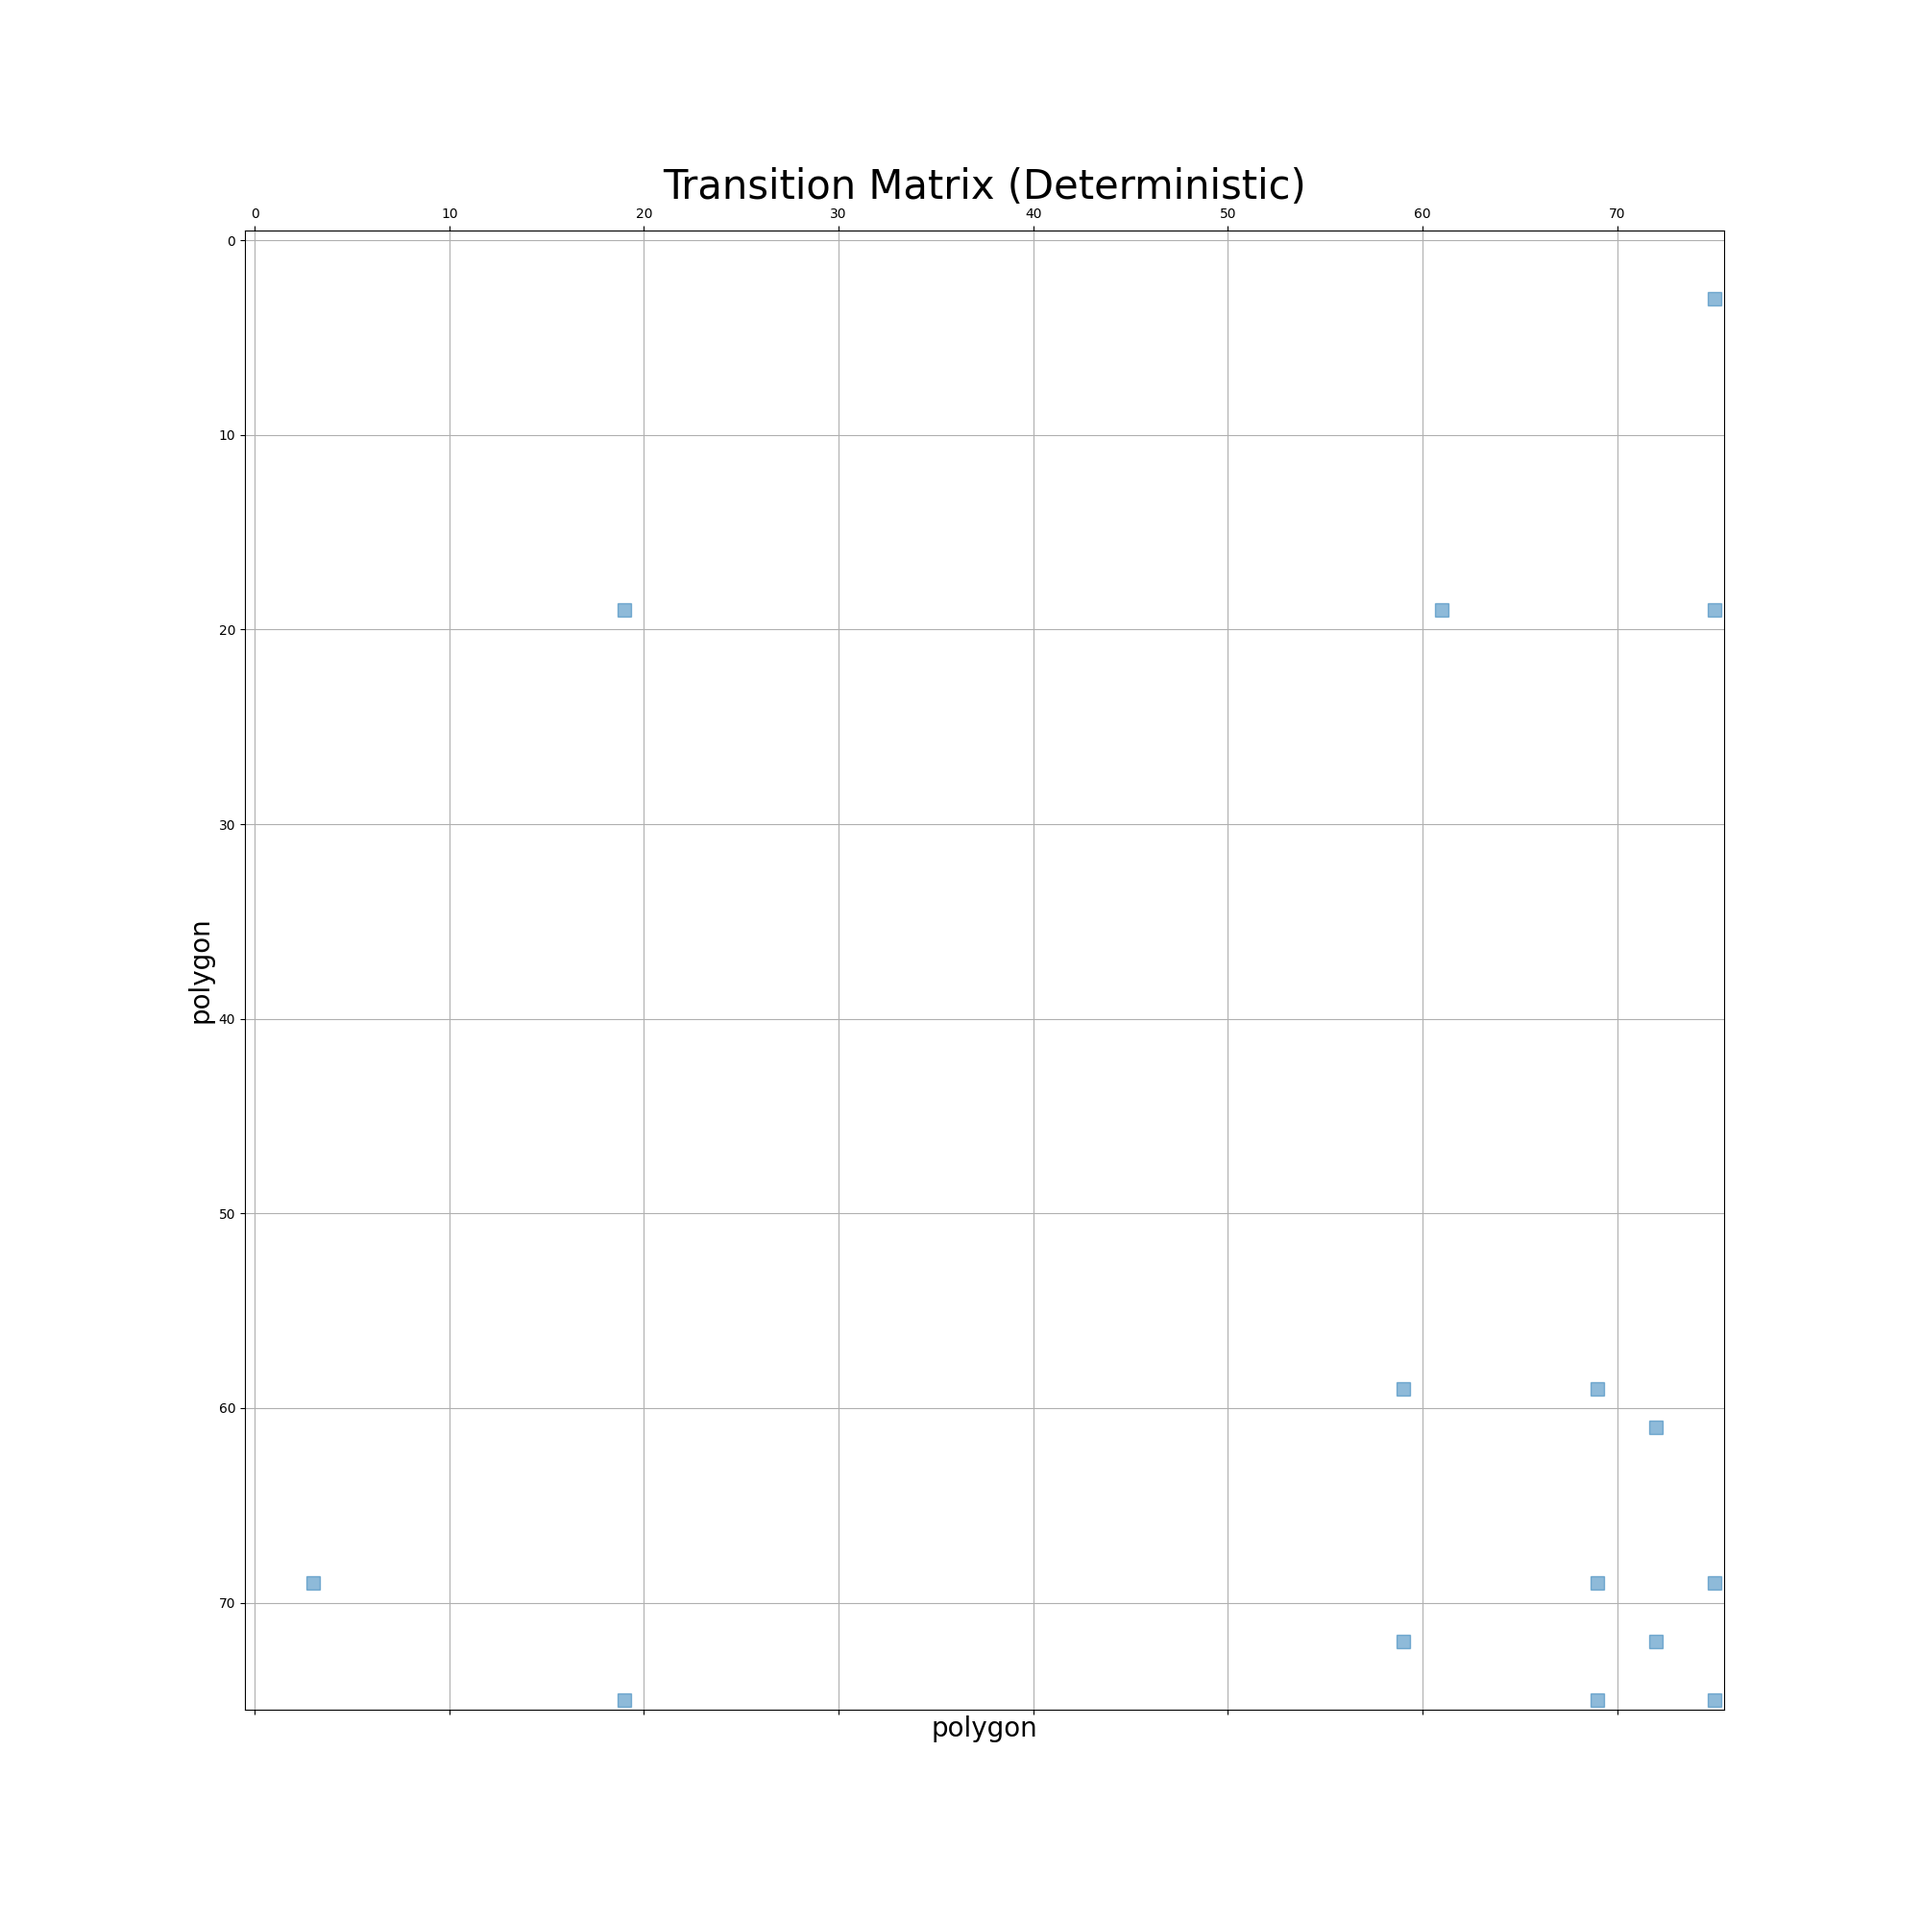
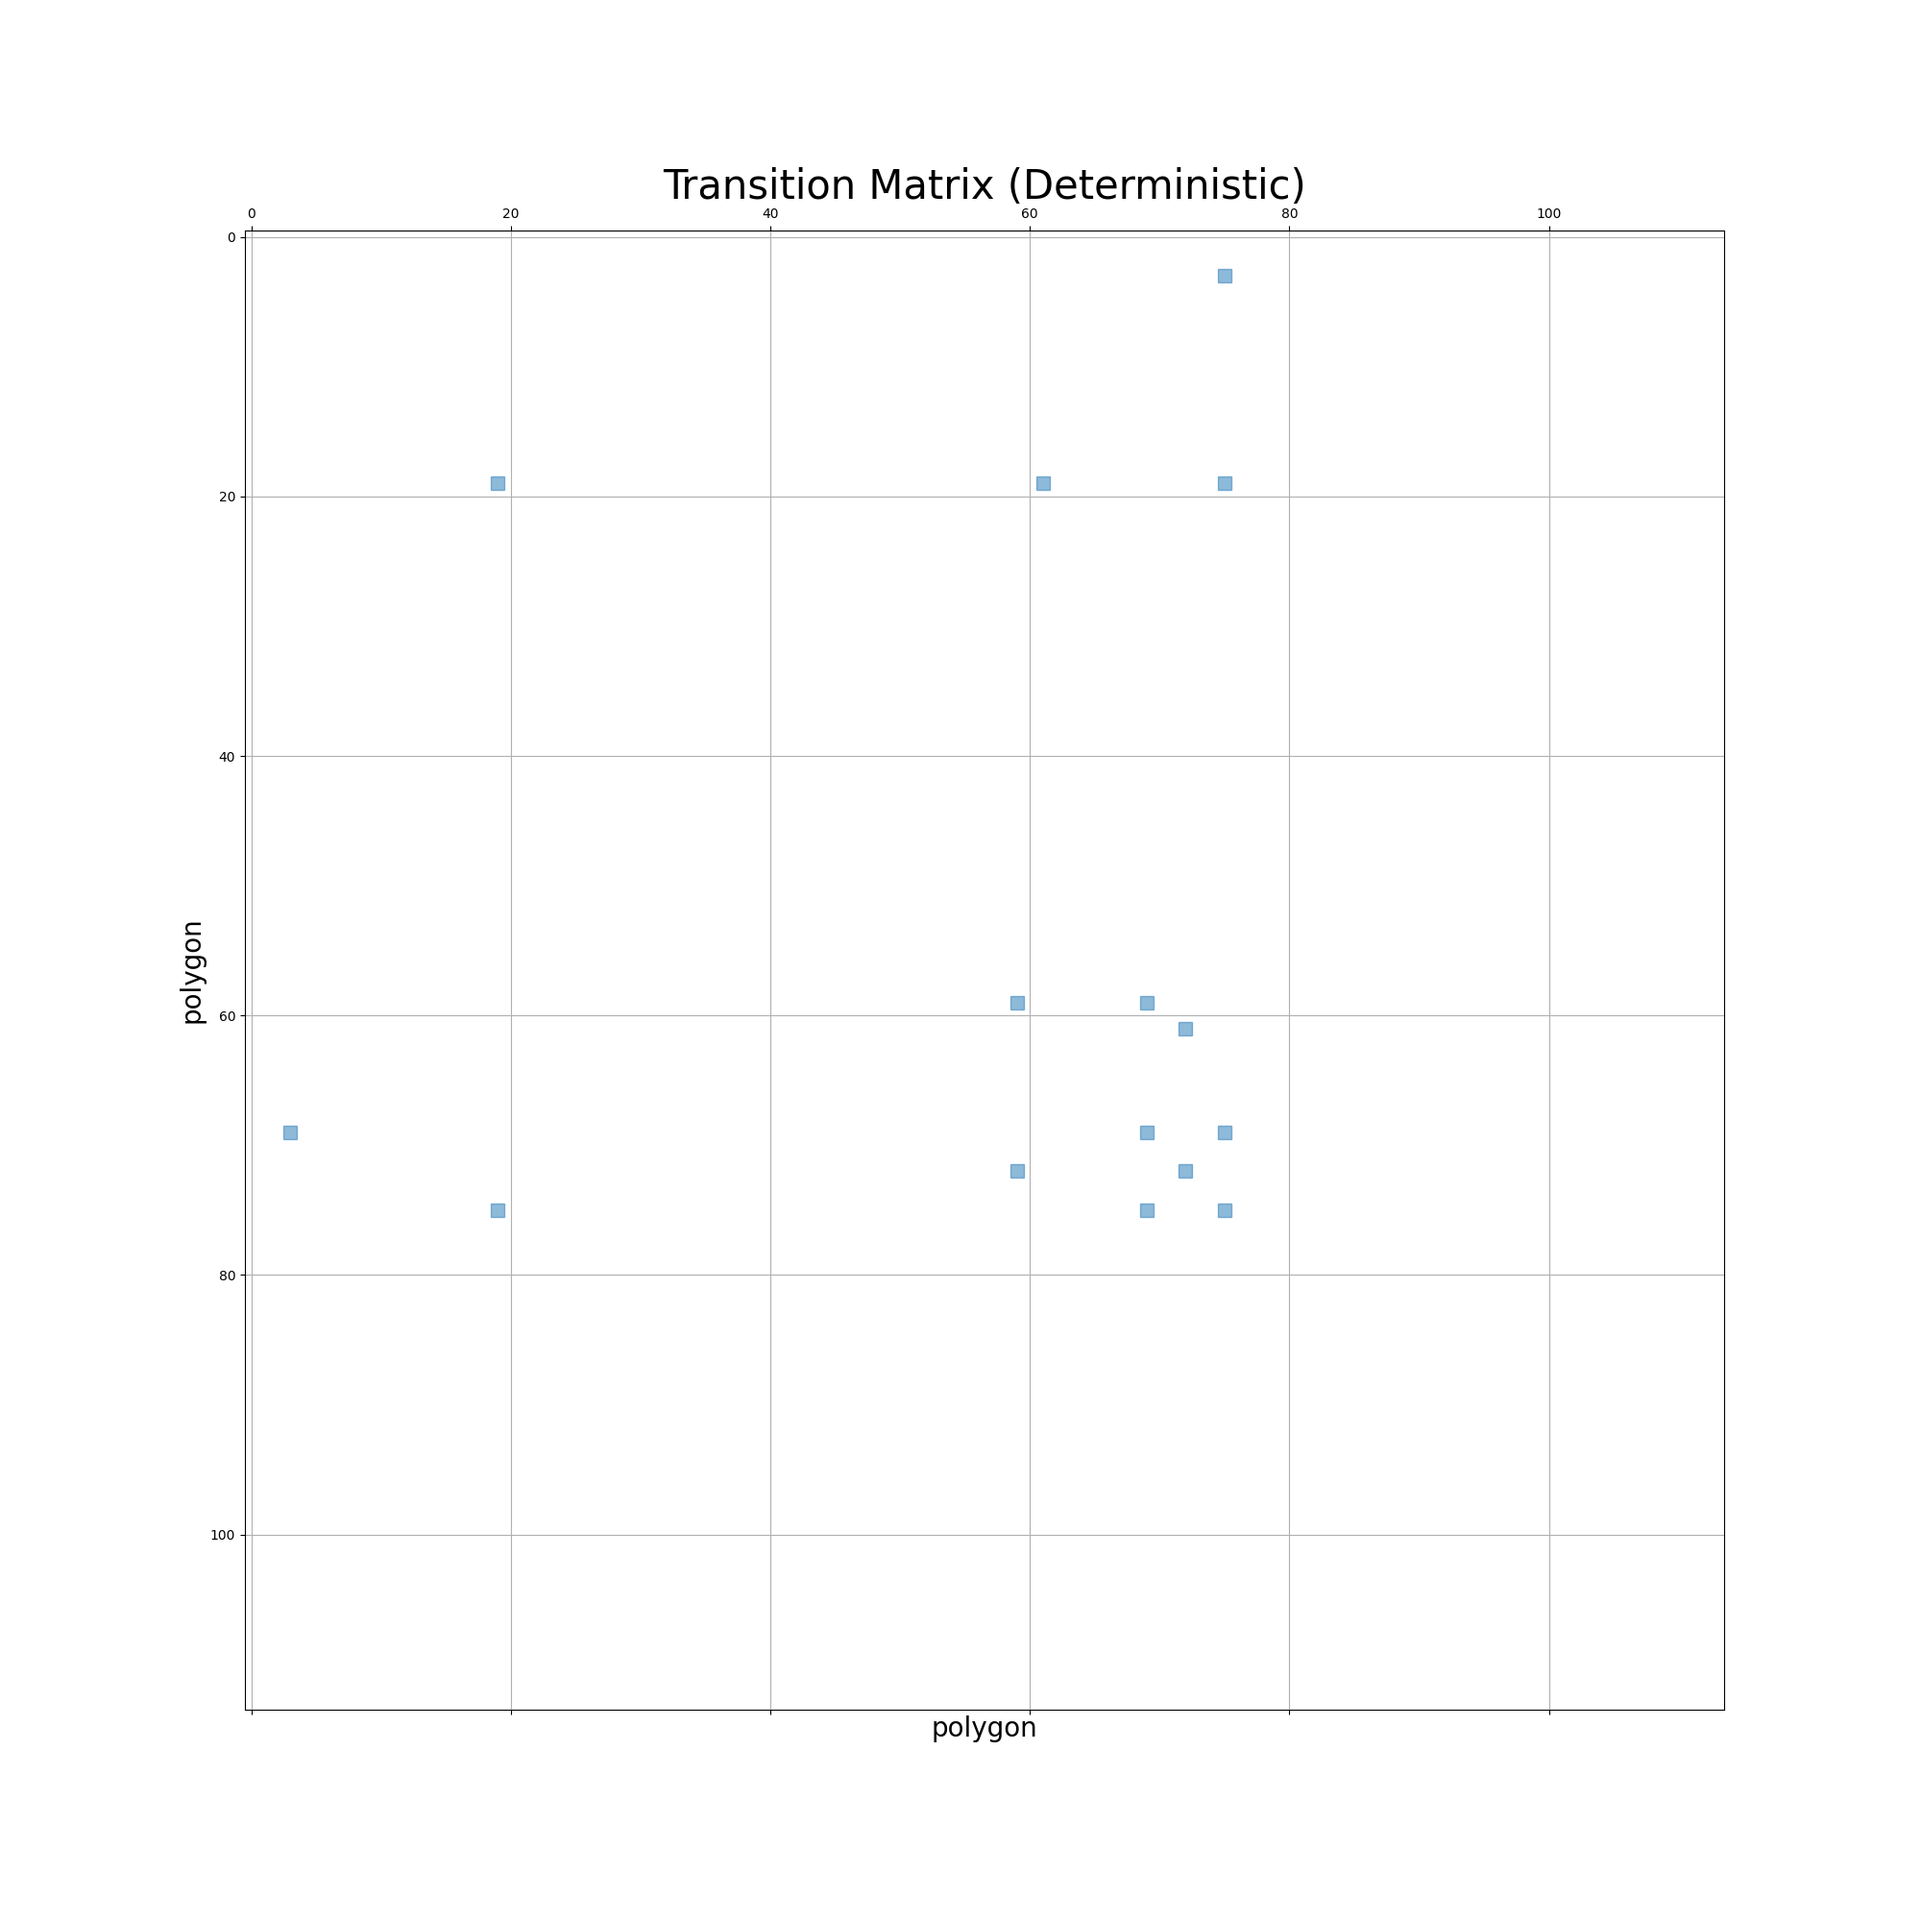
update

Changed region(s): [[0.093, 0.465, 0.124, 0.527], [0.527, 0.248, 0.558, 0.279]]

diff --git a/cdr_trajectories/main.py b/cdr_trajectories/main.py
@@ -3,6 +3,7 @@ Main module
 ===========
 """
 
+import os
 import pyspark.sql.functions as F
 from pyspark.sql.functions import arrays_zip
 from cdr_trajectories.mpn import mpn_data
@@ -11,7 +12,7 @@ from cdr_trajectories.ring import oneRing_data, twoRing_data, threeRing_data
 from cdr_trajectories.TM import TM
 from cdr_trajectories.OD import OD
 from cdr_trajectories.time_inhomo import time_inhomo
-from cdr_trajectories.udfs import prepare_for_plot, plot_dense, plot_sparse
+from cdr_trajectories.udfs import prepare_for_sparse_plot, prepare_for_dense_plot, plot_sparse, plot_dense
 
 trajectories = mpn_data.join(voronoi_data, ['avg_X', 'avg_Y'], how = 'inner')\
                        .orderBy(['user_id', 'timestamp'])
@@ -25,38 +26,38 @@ zeroRing_trajectories = trajectories.withColumn('neighbors', F.array('voronoi_id
 deterministic_trajectories = zeroRing_trajectories
 
 tm_0 = TM(deterministic_trajectories).make_tm()
-tm_0.toPandas().to_csv('test.csv')
-plot_sparse(prepare_for_plot(tm_0, 'updates'), 'TM_0.png', 'Transition Matrix (Deterministic)')
+plot_sparse(prepare_for_sparse_plot(tm_0, 'updates'), 'TM_0.png', 'Transition Matrix (Deterministic)')
 
 
-# class Trajectories:
 
-#     def __init__(self, df, ring):
-#         self.df = df
-#         self.ring = ring
+class Trajectories:
 
-#     def join(self):
-#         self.df = self.df.join(self.ring, ['voronoi_id'], how = 'inner')\
-#                          .orderBy(['user_id', 'timestamp'])\
-#                          .drop('avg_X', 'avg_Y', 'neighbors', 'props')
-#         return self.df
+    def __init__(self, df, ring):
+        self.df = df
+        self.ring = ring
 
-# oneRing_trajectories = Trajectories(trajectories, oneRing_data).join()
-# twoRing_trajectories = Trajectories(trajectories, twoRing_data).join()
-# threeRing_trajectories = Trajectories(trajectories, threeRing_data).join()
+    def join(self):
+        self.df = self.df.join(self.ring, ['voronoi_id'], how = 'inner')\
+                         .orderBy(['user_id', 'timestamp'])\
+                         .drop('avg_X', 'avg_Y', 'neighbors', 'props')
+        return self.df
 
-# probabilistic_trajectories = threeRing_trajectories
+oneRing_trajectories = Trajectories(trajectories, oneRing_data).join()
+twoRing_trajectories = Trajectories(trajectories, twoRing_data).join()
+threeRing_trajectories = Trajectories(trajectories, threeRing_data).join()
 
-# tm_1 = TM(oneRing_trajectories).make_tm()
-# plot_dense(prepare_for_plot(tm_1, 'updates'), 'TM_1.png', 'Transition Matrix (One Ring)')
-# tm_2 = TM(twoRing_trajectories).make_tm()
-# plot_dense(prepare_for_plot(tm_2, 'updates'), 'TM_2.png', 'Transition Matrix (Two Rings)')
-# tm_3 = TM(probabilistic_trajectories).make_tm()
-# plot_dense(prepare_for_plot(tm_3, 'updates'), 'TM_3.png', 'Transition Matrix (Three Rings)')
+probabilistic_trajectories = threeRing_trajectories
+
+tm_1 = TM(oneRing_trajectories).make_tm()
+plot_dense(prepare_for_dense_plot(tm_1, 'updates'), 'TM_1.png', 'Transition Matrix (One Ring)')
+tm_2 = TM(twoRing_trajectories).make_tm()
+plot_dense(prepare_for_dense_plot(tm_2, 'updates'), 'TM_2.png', 'Transition Matrix (Two Rings)')
+tm_3 = TM(probabilistic_trajectories).make_tm()
+plot_dense(prepare_for_dense_plot(tm_3, 'updates'), 'TM_3.png', 'Transition Matrix (Three Rings)')
 
 
-# od = OD(probabilistic_trajectories).make_od()
-# plot_dense(prepare_for_plot(od, 'updates'), 'OD.png', 'Origin-Destination Matrix')
+od = OD(probabilistic_trajectories).make_od()
+plot_dense(prepare_for_dense_plot(od, 'updates'), 'OD.png', 'Origin-Destination Matrix')
 
 #Paremeters are subjected to change
 #tm_time = TM_OD(time_inhomo(cdr_trajectories, 6, 8).make_tm_time()).make_tm()

diff --git a/cdr_trajectories/udfs.py b/cdr_trajectories/udfs.py
@@ -9,13 +9,27 @@ import numpy as np
 import scipy.sparse as sparse
 import matplotlib.pyplot as plt
 
+
+
 def matrix_updates(states1, states2):
     update = [[float(el1[0]), float(el2[0]), el1[1]*el2[1]]
              for el1 in states1 for el2 in states2]
     return update
 
 
-def prepare_for_plot(data, type_):
+def prepare_for_sparse_plot(data, type_):
+
+    pd_df = data.toPandas()
+
+    data = np.array( pd_df[type_] )
+    rows = np.array( pd_df['y'].astype('int') )
+    cols = np.array( pd_df['x'].astype('int') )
+
+    A = sparse.coo_matrix((data, (rows, cols)), shape = (114, 114))
+
+    return A
+
+def prepare_for_dense_plot(data, type_):
 
     pd_df = data.toPandas()
 
@@ -26,6 +40,16 @@ def prepare_for_plot(data, type_):
     A = sparse.coo_matrix((data, (rows, cols)))
 
     return A
+
+
+def plot_sparse(matrix, fname, title):
+    plt.figure(figsize = (20, 20))
+    plt.spy(matrix, markersize = 10, alpha = 0.5)
+    plt.grid()
+    plt.xlabel("polygon", fontsize = 20)
+    plt.ylabel("polygon", fontsize = 20)
+    plt.title(title, fontsize = 30)
+    plt.savefig(os.path.join('outputs', fname))
 
 
 def plot_dense(matrix, fname, title):
@@ -39,11 +63,4 @@ def plot_dense(matrix, fname, title):
     plt.savefig(os.path.join('outputs', fname))
 
 
-def plot_sparse(matrix, fname, title):
-    plt.figure(figsize = (20, 20))
-    plt.spy(matrix, markersize = 10, alpha = 0.5)
-    plt.grid()
-    plt.xlabel("polygon", fontsize = 20)
-    plt.ylabel("polygon", fontsize = 20)
-    plt.title(title, fontsize = 30)
-    plt.savefig(os.path.join('outputs', fname))
+

diff --git a/cdr_trajectories/constants.py b/cdr_trajectories/constants.py
@@ -15,3 +15,5 @@ spark = SparkSession.builder\
 ring_fraction = [0.37, 0.37, 0.15, 0.06, 0.05]
 
 OD_time_frame = 2*60*60
+
+
